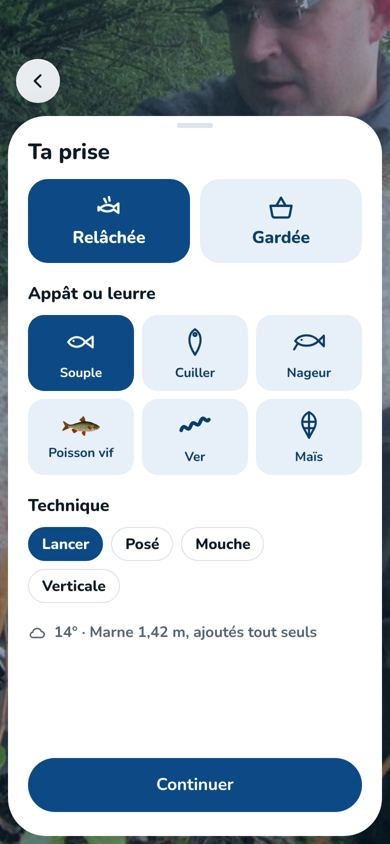
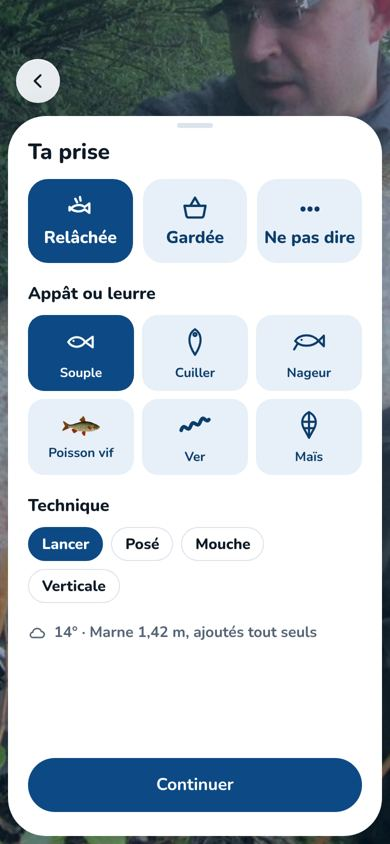
Design : P22 A avec « Ne pas dire » (choix d'Adem)
Claude-Session: https://claude.ai/code/session_01SHD9N8ay5HXbeEQZKxhWVP

Changed region(s): [[0.0923, 0.1848, 0.5846, 0.3389], [0.6154, 0.2156, 0.9231, 0.3081]]

diff --git a/docs/design/maquettes/P22-details-A.dc.html b/docs/design/maquettes/P22-details-A.dc.html
@@ -16,7 +16,7 @@ body{margin:0}
 
 </style>
 </helmet>
-<div class="ecran" style="background:#0E1A26"><img src="/_blob/084d443133499a1c8e783fc6ededce32" alt="Un pêcheur tient un brochet" style="position:absolute;inset:0;width:390px;height:844px;object-fit:cover"><div style="position:absolute;inset:0;background:rgba(8,42,76,.4)"></div><button class="rond verre" aria-label="Retour" style="position:absolute;left:16px;top:59px;color:var(--encre)"><svg viewBox="0 0 24 24" aria-hidden="true" style="width:20px;height:20px;"><path fill="none" stroke="currentColor" stroke-width="2.4" stroke-linecap="round" stroke-linejoin="round" d="M15 5l-7 7 7 7"/></svg></button><div class="feuille" style="top:116px;bottom:8px;padding-top:0"><div class="poignee"></div><h2 class="t-titre">Ta prise</h2><div style="margin-top:14px"><div style="display:flex;gap:10px"><button style="flex:1;height:84px;border-radius:20px;display:flex;flex-direction:column;align-items:center;justify-content:center;gap:6px;background:var(--marine);color:#fff"><svg viewBox="0 0 24 24" aria-hidden="true" style="width:28px;height:28px;"><g fill="none" stroke="currentColor" stroke-width="2" stroke-linecap="round" stroke-linejoin="round"><path d="M3 15c3-5 9-6 13-3l4-3v8l-4-3c-4 3-10 2-13-2Z"/><path d="M8 5l1.5 3M12 3.5l.5 3"/></g></svg><b class="t-sous" style="color:inherit">Relâchée</b></button><button style="flex:1;height:84px;border-radius:20px;display:flex;flex-direction:column;align-items:center;justify-content:center;gap:6px;background:var(--tuile);color:var(--marine-fonce)"><svg viewBox="0 0 24 24" aria-hidden="true" style="width:28px;height:28px;"><g fill="none" stroke="currentColor" stroke-width="2" stroke-linecap="round" stroke-linejoin="round"><path d="M3 11h18l-1.6 8.5a2 2 0 0 1-2 1.5H6.6a2 2 0 0 1-2-1.5Z"/><path d="M8 11 12 4l4 7"/></g></svg><b class="t-sous" style="color:inherit">Gardée</b></button></div></div><div class="t-sous" style="margin:20px 0 10px">Appât ou leurre</div><div style="display:flex;flex-wrap:wrap;gap:8px"><button aria-label="Souple" style="width:calc((100% - 16px) / 3);height:76px;border-radius:16px;display:flex;flex-direction:column;align-items:center;justify-content:center;gap:6px;background:var(--marine);color:#fff"><svg viewBox="0 0 32 32" aria-hidden="true" style="width:34px;height:34px"><g fill="none" stroke="currentColor" stroke-width="2" stroke-linejoin="round" stroke-linecap="round"><path d="M4 16c4-6 12-6 16 0-4 6-12 6-16 0Z"/><path d="m20 16 7-5v10Z"/><circle cx="9" cy="15" r="1" fill="currentColor" stroke="none"/></g></svg><span class="t-legende" style="color:inherit">Souple</span></button><button aria-label="Cuiller" style="width:calc((100% - 16px) / 3);height:76px;border-radius:16px;display:flex;flex-direction:column;align-items:center;justify-content:center;gap:6px;background:var(--tuile);color:var(--marine-fonce)"><svg viewBox="0 0 32 32" aria-hidden="true" style="width:34px;height:34px"><g fill="none" stroke="currentColor" stroke-width="2" stroke-linejoin="round" stroke-linecap="round"><path d="M16 4c6 4 8 12 0 24-8-12-6-20 0-24Z"/><circle cx="16" cy="9" r="1.4"/></g></svg><span class="t-legende" style="color:inherit">Cuiller</span></button><button aria-label="Nageur" style="width:calc((100% - 16px) / 3);height:76px;border-radius:16px;display:flex;flex-direction:column;align-items:center;justify-content:center;gap:6px;background:var(--tuile);color:var(--marine-fonce)"><svg viewBox="0 0 32 32" aria-hidden="true" style="width:34px;height:34px"><g fill="none" stroke="currentColor" stroke-width="2" stroke-linejoin="round" stroke-linecap="round"><path d="M3 15c5-7 16-7 22 0-6 6-17 6-22 0Z"/><path d="m25 15 5-5v10Z"/><path d="m5 18-3 5"/><circle cx="9" cy="14" r="1" fill="currentColor" stroke="none"/></g></svg><span class="t-legende" style="color:inherit">Nageur</span></button><button aria-label="Poisson vif" style="width:calc((100% - 16px) / 3);height:76px;border-radius:16px;display:flex;flex-direction:column;align-items:center;justify-content:center;gap:6px;background:var(--tuile);color:var(--marine-fonce)"><img class="poisson" src="/_blob/4799d66fb5fc82ab53e0051d38867b2d" alt="" style="width:38px;height:26px"><span class="t-legende" style="color:inherit">Poisson vif</span></button><button aria-label="Ver" style="width:calc((100% - 16px) / 3);height:76px;border-radius:16px;display:flex;flex-direction:column;align-items:center;justify-content:center;gap:6px;background:var(--tuile);color:var(--marine-fonce)"><svg viewBox="0 0 32 32" aria-hidden="true" style="width:34px;height:34px"><g fill="none" stroke="currentColor" stroke-width="2" stroke-linejoin="round" stroke-linecap="round"><path stroke-width="3.4" d="M3 20c3-9 6 4 9-4s6 4 9-4 5 2 8-2"/></g></svg><span class="t-legende" style="color:inherit">Ver</span></button><button aria-label="Maïs" style="width:calc((100% - 16px) / 3);height:76px;border-radius:16px;display:flex;flex-direction:column;align-items:center;justify-content:center;gap:6px;background:var(--tuile);color:var(--marine-fonce)"><svg viewBox="0 0 32 32" aria-hidden="true" style="width:34px;height:34px"><g fill="none" stroke="currentColor" stroke-width="2" stroke-linejoin="round" stroke-linecap="round"><path d="M16 3c6 3 8 9 5 15l-5 9-5-9c-3-6-1-12 5-15Z"/><path d="M11 12h10M12 18h8M16 3v24"/></g></svg><span class="t-legende" style="color:inherit">Maïs</span></button></div><div class="t-sous" style="margin:20px 0 10px">Technique</div><div style="display:flex;gap:8px;flex-wrap:wrap"><span class="puce on">Lancer</span><span class="puce">Posé</span><span class="puce">Mouche</span><span class="puce">Verticale</span></div><div style="margin-top:20px"><div style="display:flex;align-items:center;gap:8px;color:var(--encre-douce);white-space:nowrap" class="t-detail"><svg viewBox="0 0 24 24" aria-hidden="true" style="width:18px;height:18px;"><path fill="none" stroke="currentColor" stroke-width="2" stroke-linejoin="round" d="M7 18h10.5a4 4 0 0 0 .4-8A6 6 0 0 0 6.3 11 3.5 3.5 0 0 0 7 18Z"/></svg><span>14° · Marne 1,42 m, ajoutés tout seuls</span></div></div><div style="position:absolute;left:20px;right:20px;bottom:24px"><button class="btn pri">Continuer</button></div></div></div>
+<div class="ecran" style="background:#0E1A26"><img src="/_blob/084d443133499a1c8e783fc6ededce32" alt="Un pêcheur tient un brochet" style="position:absolute;inset:0;width:390px;height:844px;object-fit:cover"><div style="position:absolute;inset:0;background:rgba(8,42,76,.4)"></div><button class="rond verre" aria-label="Retour" style="position:absolute;left:16px;top:59px;color:var(--encre)"><svg viewBox="0 0 24 24" aria-hidden="true" style="width:20px;height:20px;"><path fill="none" stroke="currentColor" stroke-width="2.4" stroke-linecap="round" stroke-linejoin="round" d="M15 5l-7 7 7 7"/></svg></button><div class="feuille" style="top:116px;bottom:8px;padding-top:0"><div class="poignee"></div><h2 class="t-titre">Ta prise</h2><div style="margin-top:14px"><div style="display:flex;gap:10px"><button style="flex:1;height:84px;border-radius:20px;display:flex;flex-direction:column;align-items:center;justify-content:center;gap:6px;background:var(--marine);color:#fff"><svg viewBox="0 0 24 24" aria-hidden="true" style="width:28px;height:28px;"><g fill="none" stroke="currentColor" stroke-width="2" stroke-linecap="round" stroke-linejoin="round"><path d="M3 15c3-5 9-6 13-3l4-3v8l-4-3c-4 3-10 2-13-2Z"/><path d="M8 5l1.5 3M12 3.5l.5 3"/></g></svg><b class="t-sous" style="color:inherit">Relâchée</b></button><button style="flex:1;height:84px;border-radius:20px;display:flex;flex-direction:column;align-items:center;justify-content:center;gap:6px;background:var(--tuile);color:var(--marine-fonce)"><svg viewBox="0 0 24 24" aria-hidden="true" style="width:28px;height:28px;"><g fill="none" stroke="currentColor" stroke-width="2" stroke-linecap="round" stroke-linejoin="round"><path d="M3 11h18l-1.6 8.5a2 2 0 0 1-2 1.5H6.6a2 2 0 0 1-2-1.5Z"/><path d="M8 11 12 4l4 7"/></g></svg><b class="t-sous" style="color:inherit">Gardée</b></button><button style="flex:1;height:84px;border-radius:20px;display:flex;flex-direction:column;align-items:center;justify-content:center;gap:6px;background:var(--tuile);color:var(--marine-fonce)"><svg viewBox="0 0 24 24" aria-hidden="true" style="width:28px;height:28px;"><g fill="none" stroke="currentColor" stroke-width="2" stroke-linecap="round"><circle cx="6" cy="12" r="1.2" fill="currentColor"/><circle cx="12" cy="12" r="1.2" fill="currentColor"/><circle cx="18" cy="12" r="1.2" fill="currentColor"/></g></svg><b class="t-sous" style="color:inherit;text-align:center;line-height:1.1">Ne pas dire</b></button></div></div><div class="t-sous" style="margin:20px 0 10px">Appât ou leurre</div><div style="display:flex;flex-wrap:wrap;gap:8px"><button aria-label="Souple" style="width:calc((100% - 16px) / 3);height:76px;border-radius:16px;display:flex;flex-direction:column;align-items:center;justify-content:center;gap:6px;background:var(--marine);color:#fff"><svg viewBox="0 0 32 32" aria-hidden="true" style="width:34px;height:34px"><g fill="none" stroke="currentColor" stroke-width="2" stroke-linejoin="round" stroke-linecap="round"><path d="M4 16c4-6 12-6 16 0-4 6-12 6-16 0Z"/><path d="m20 16 7-5v10Z"/><circle cx="9" cy="15" r="1" fill="currentColor" stroke="none"/></g></svg><span class="t-legende" style="color:inherit">Souple</span></button><button aria-label="Cuiller" style="width:calc((100% - 16px) / 3);height:76px;border-radius:16px;display:flex;flex-direction:column;align-items:center;justify-content:center;gap:6px;background:var(--tuile);color:var(--marine-fonce)"><svg viewBox="0 0 32 32" aria-hidden="true" style="width:34px;height:34px"><g fill="none" stroke="currentColor" stroke-width="2" stroke-linejoin="round" stroke-linecap="round"><path d="M16 4c6 4 8 12 0 24-8-12-6-20 0-24Z"/><circle cx="16" cy="9" r="1.4"/></g></svg><span class="t-legende" style="color:inherit">Cuiller</span></button><button aria-label="Nageur" style="width:calc((100% - 16px) / 3);height:76px;border-radius:16px;display:flex;flex-direction:column;align-items:center;justify-content:center;gap:6px;background:var(--tuile);color:var(--marine-fonce)"><svg viewBox="0 0 32 32" aria-hidden="true" style="width:34px;height:34px"><g fill="none" stroke="currentColor" stroke-width="2" stroke-linejoin="round" stroke-linecap="round"><path d="M3 15c5-7 16-7 22 0-6 6-17 6-22 0Z"/><path d="m25 15 5-5v10Z"/><path d="m5 18-3 5"/><circle cx="9" cy="14" r="1" fill="currentColor" stroke="none"/></g></svg><span class="t-legende" style="color:inherit">Nageur</span></button><button aria-label="Poisson vif" style="width:calc((100% - 16px) / 3);height:76px;border-radius:16px;display:flex;flex-direction:column;align-items:center;justify-content:center;gap:6px;background:var(--tuile);color:var(--marine-fonce)"><img class="poisson" src="/_blob/4799d66fb5fc82ab53e0051d38867b2d" alt="" style="width:38px;height:26px"><span class="t-legende" style="color:inherit">Poisson vif</span></button><button aria-label="Ver" style="width:calc((100% - 16px) / 3);height:76px;border-radius:16px;display:flex;flex-direction:column;align-items:center;justify-content:center;gap:6px;background:var(--tuile);color:var(--marine-fonce)"><svg viewBox="0 0 32 32" aria-hidden="true" style="width:34px;height:34px"><g fill="none" stroke="currentColor" stroke-width="2" stroke-linejoin="round" stroke-linecap="round"><path stroke-width="3.4" d="M3 20c3-9 6 4 9-4s6 4 9-4 5 2 8-2"/></g></svg><span class="t-legende" style="color:inherit">Ver</span></button><button aria-label="Maïs" style="width:calc((100% - 16px) / 3);height:76px;border-radius:16px;display:flex;flex-direction:column;align-items:center;justify-content:center;gap:6px;background:var(--tuile);color:var(--marine-fonce)"><svg viewBox="0 0 32 32" aria-hidden="true" style="width:34px;height:34px"><g fill="none" stroke="currentColor" stroke-width="2" stroke-linejoin="round" stroke-linecap="round"><path d="M16 3c6 3 8 9 5 15l-5 9-5-9c-3-6-1-12 5-15Z"/><path d="M11 12h10M12 18h8M16 3v24"/></g></svg><span class="t-legende" style="color:inherit">Maïs</span></button></div><div class="t-sous" style="margin:20px 0 10px">Technique</div><div style="display:flex;gap:8px;flex-wrap:wrap"><span class="puce on">Lancer</span><span class="puce">Posé</span><span class="puce">Mouche</span><span class="puce">Verticale</span></div><div style="margin-top:20px"><div style="display:flex;align-items:center;gap:8px;color:var(--encre-douce);white-space:nowrap" class="t-detail"><svg viewBox="0 0 24 24" aria-hidden="true" style="width:18px;height:18px;"><path fill="none" stroke="currentColor" stroke-width="2" stroke-linejoin="round" d="M7 18h10.5a4 4 0 0 0 .4-8A6 6 0 0 0 6.3 11 3.5 3.5 0 0 0 7 18Z"/></svg><span>14° · Marne 1,42 m, ajoutés tout seuls</span></div></div><div style="position:absolute;left:20px;right:20px;bottom:24px"><button class="btn pri">Continuer</button></div></div></div>
 </x-dc>
 <script type="text/x-dc" data-dc-script data-props='{"$preview":{"width":390,"height":844}}'>
 class Component extends DCLogic {

diff --git a/docs/design/cartographie.md b/docs/design/cartographie.md
@@ -33,7 +33,7 @@ Navigation : barre d'onglets iOS à 3 volets, Pescedex · Carte · Club, ouvertu
 - **P19 Quelle espèce ?** [Prise/PriseVuesEspece] : le modèle propose ses 3 meilleures espèces EN IMAGES (brochet en premier, puis black-bass, sandre) + une case « Autre ». Le pêcheur touche la bonne. Jamais de saisie libre. L'IA propose, l'utilisateur confirme.
 - **P20 Autre espèce** [Prise/PriseVuesEspece, grille] : grille d'images limitée aux espèces de France (poissons, écrevisses, grenouilles), recherche, regroupement par famille (carnassiers, blancs, salmonidés, écrevisses et grenouilles).
 - **P21 Taille et poids** [Prise/MesureAR, ToiseLecteur] : (Adem, 16 oct. 2h21) mesure en réalité augmentée : l'appareil photo, le pêcheur pose un point sur le museau puis un sur le bout de la queue, poisson à plat ; l'app affiche une fourchette, jamais un chiffre sec (« 52 à 56 cm », ±2 cm avec LiDAR, ±4 cm sans) et le poids estimé aux deux bornes (« ≈ 1,6 à 2,0 kg, estimé »). La carte note « mesurée (AR) » ou « saisie ». Secours : toise lue par Vision, ou curseur. Hors plage plausible de l'espèce : « Remesurer ».
-- **P22 Détails de la prise** [Prise/PriseModele] : ce qu'on demande en plus, en touchers seulement : relâchée ou gardée (2 gros choix), appât ou leurre utilisé (images : leurre souple, cuiller, poisson nageur, vif, ver, maïs…), technique (lancer, posé, mouche, verticale), commentaire facultatif. La météo et la rivière sont ajoutées toutes seules. La photo n'a pas de GPS.
+- **P22 Détails de la prise** [Prise/PriseModele] : ce qu'on demande en plus, en touchers seulement : relâchée, gardée ou « Ne pas dire » (3 gros choix, Adem 16 oct. 2h47 ; sans réponse, la carte n’affiche rien à ce sujet), appât ou leurre utilisé (images : leurre souple, cuiller, poisson nageur, vif, ver, maïs…), technique (lancer, posé, mouche, verticale), commentaire facultatif. La météo et la rivière sont ajoutées toutes seules. La photo n'a pas de GPS.
 - **P23 Verdict et révélation** [Prise/PriseVuesResultat] : le verdict de la table sourcée en haut (« Taille légale atteinte · 68 / 60 cm mini », vert ; ou orange si sous la taille ou fermé, avec la règle) puis la carte à collectionner révélée en plein écran, un seul bouton « Ajouter au Pescedex » (que le poisson soit gardé ou relâché). Jamais « tu peux la garder ».
 
 ## G6 · Cartes et Pescedex

diff --git a/docs/design/choix.md b/docs/design/choix.md
@@ -24,3 +24,4 @@ Direction retenue pour chaque page de la toile (A · Plans, B · Réglages, C ·
 | P20 Autre espèce (grille) | A · Plans | 16 oct. 2h45 |
 | P21 Taille et poids (réalité augmentée) | A · Plans | 16 oct. 2h45 |
 | P15 Écran verrouillé (boutons Prise et Pause) | A · Plans | 16 oct. 2h45 |
+| P22 Détails de la prise | A · Plans, avec une 3e option « Ne pas dire » | 16 oct. 2h47 |
